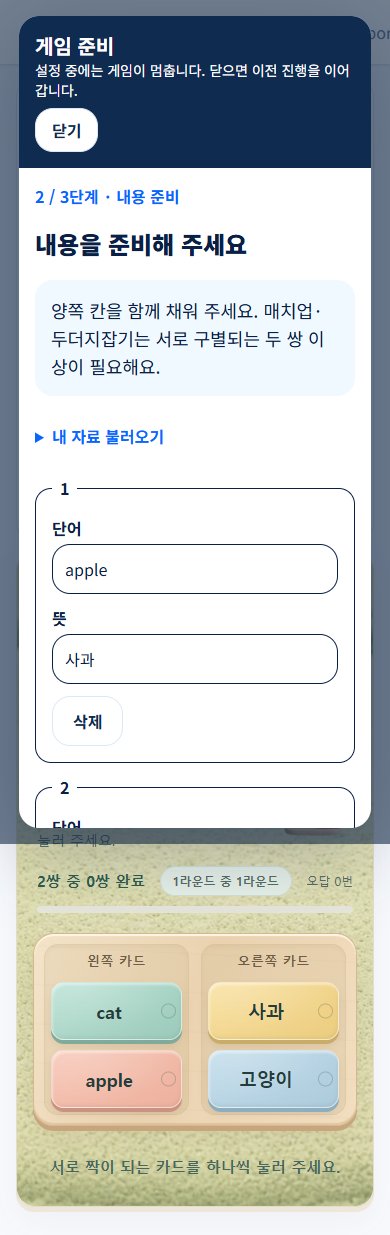
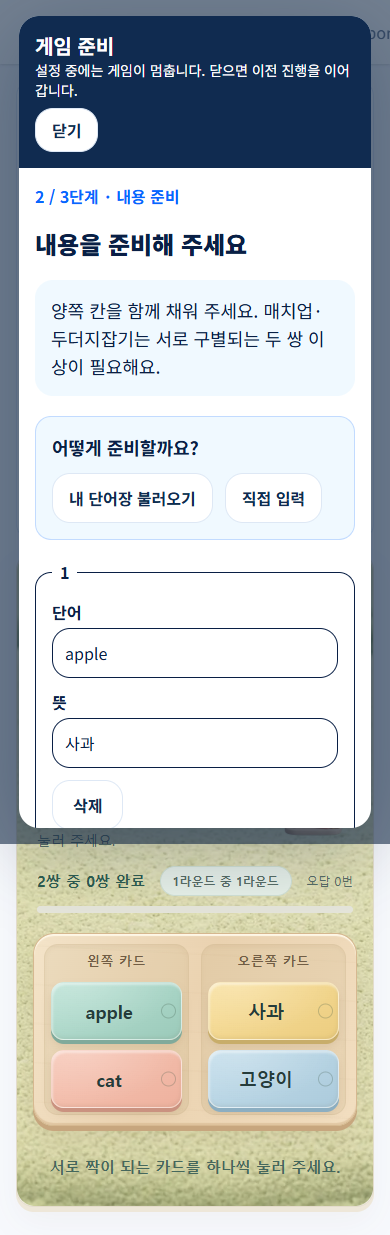
게임 만들기 안내 다듬기: 반 명단·자료 출처 고르기, 안내 흐름 검사 추가 (Codex 작업 마무리)

diff --git a/app/src/components/GameSetupGuide.tsx b/app/src/components/GameSetupGuide.tsx
@@ -4,12 +4,13 @@ import { useTranslation } from 'react-i18next';
 import { useAuth } from '../context/AuthContext';
 import type { GameWorkspaceBridge } from '../context/GameWorkspaceContext';
 import { guideFamily, guideKinds, guideRows, guideContent, guideProblem, type GuideKind } from '../lib/gameGuide';
-import { prepareClassroomGame } from '../lib/gameWorkspace';
+import { prepareClassroomGame, classroomGameRequirement } from '../lib/gameWorkspace';
 import { gamePreparation } from '../lib/gamePreparation';
 import { useRecoverableField } from '../lib/useRecoverableField';
 import { insertPhrase } from '../lib/storybook';
 import { SENTENCE_PATTERNS, getSentencePattern, slotLabelKey, type SentenceSlot } from '../lib/sentencePatterns';
-import type { FullCardItem, GameTemplate } from '../lib/types';
+import type { FullCardItem, GameTemplate, WordList } from '../lib/types';
+import GameSourcePicker from './GameSourcePicker';
 import GameImagePicker from './GameImagePicker';
 import { guideButton as button } from './GameCreateButton';
 
@@ -41,6 +42,28 @@ export default function GameSetupGuide({info,active,canStart,busy,run,start,open
   let rows:string[][]=[];try{const stored=raw?JSON.parse(raw):null;rows=Array.isArray(stored)&&stored.every(r=>Array.isArray(r)&&r.every(s=>typeof s==='string'))?stored:[];}catch{/* recover malformed tab data safely */}
   const write=(next:string[][])=>setRaw(JSON.stringify(next));
   const seed=(template:GameTemplate)=>{const next=guideRows(template,kind);write(next.length?next:[['','']]);};
+  async function importSource(cards:FullCardItem[],list?:WordList){
+    if(!info.selected)return;
+    setError('');
+    if(kind==='names'){write(cards.map(c=>[c.word]));if(info.gameType==='timer')setNames(cards.map(c=>c.word).join('\n'));return;}
+    if(family==='bridge'){setSource(cards[0]?.word||'');write(cards.map(c=>[c.word,'','','']));return;}
+    if(family==='tower'){setTowerStart(cards[0]?.word||'');write([['','0','','']]);return;}
+    if(family==='image'||family==='groups'){
+      const config={...info.selected.config,classroomSource:{id:list?.id||'composition',name:list?.name||'',kind:'word' as const,version:list?.updated_at||'',cards}};
+      if(!await run(()=>info.applyGuide({items:info.selected!.items,config})))throw new Error('import_failed');
+      write(cards.map(c=>family==='image'?[c.word,c.imageUrl||'']:[c.word,c.category||'']));return;
+    }
+    const content=prepareClassroomGame(info.gameType,cards,kind==='sentence'?'sentence':'word');
+    if(!content)throw new Error('incompatible_source');
+    const next={...info.selected,items:content.items,config:{...info.selected.config,...content.config,classroomSource:{id:list?.id||'composition',name:list?.name||'',kind:kind==='sentence'?'sentence' as const:'word' as const,version:list?.updated_at||'',cards}}};
+    if(!await run(()=>info.applyGuide({items:next.items,config:next.config})))throw new Error('import_failed');
+    seed(next);
+  }
+  function sourceReason(list:WordList){
+    if(['bridge','tower','image','groups'].includes(family))return null;
+    if(prepareClassroomGame(info.gameType,list))return null;
+    const requirement=classroomGameRequirement(info.gameType,list.kind||'word');return t(requirement.key,{count:requirement.count});
+  }
   const setCell=(i:number,j:number,value:string)=>{const next=rows.map(r=>[...r]);next[i]||=[];next[i][j]=value;write(next);};
   useEffect(()=>{nativeVisible(active&&step===1&&native);},[active,step,native,nativeVisible]);
   useEffect(()=>{if(active)heading.current?.focus();},[active,step]);
@@ -119,8 +142,9 @@ export default function GameSetupGuide({info,active,canStart,busy,run,start,open
     {step===1&&<>
       <p className="rounded-xl bg-sky-50 p-4 text-lg">{t(`guide.hints.${family}`)}</p>
       {t(`guide.gameHints.${info.gameType}`,{defaultValue:''})&&<p>{t(`guide.gameHints.${info.gameType}`,{defaultValue:''})}</p>}
+      {!native&&kind!=='sample'&&<GameSourcePicker kind={kind} onPick={importSource} canUse={sourceReason} />}
       {!dedicated&&!native&&<>
-        {kind!=='names'&&<details><summary className="cursor-pointer py-2 font-bold text-primary">{t('guide.load')}</summary><div className="flex flex-wrap gap-2">{info.lists.length?info.lists.map(list=>{const content=prepareClassroomGame(info.gameType,list);const canFill=!!content||(['bridge','tower'].includes(family)?list.kind==='sentence':['image','groups'].includes(family)&&list.kind!=='sentence');return <button className={button} key={list.id} disabled={!canFill||busy} onClick={()=>{if(!info.selected)return;if(family==='bridge'){setSource(list.items[0]?.word||'');write(list.items.map(i=>[i.word,'','','']));return;}if(family==='tower'){setTowerStart(list.items[0]?.word||'');write([['','0','','']]);return;}if(family==='image'){write(list.items.map(i=>[i.word,i.image_url||'']));return;}if(family==='groups'){write(list.items.map(i=>[i.word,i.category||'']));return;}if(content){const next={...info.selected,items:content.items,config:{...info.selected.config,...content.config,classroomSource:{id:list.id,name:list.name,kind:list.kind||'word',version:list.updated_at,cards:list.items.map(i=>({id:i.id,word:i.word,meaning:i.meaning,imageUrl:i.image_url,category:i.category}))}}};void run(()=>info.applyGuide({items:next.items,config:next.config})).then(ok=>{if(ok)seed(next);});}}}>{list.name} · {list.items.length}</button>;}):<p>{t('guide.empty')}</p>}</div></details>}
+
         {family==='diagram'&&<div className="space-y-3"><GameImagePicker academyId={info.academyId} value={diagram||null} onChange={url=>setDiagram(url||'')}/>{diagram&&<div className="relative w-fit"><button type="button" className="block rounded-xl focus-visible:outline-4 focus-visible:outline-primary" aria-label={t('guide.hints.diagram')} onClick={e=>{const bounds=e.currentTarget.getBoundingClientRect();const keyboard=e.detail===0;write([...rows.filter(r=>r[0]),['',String(keyboard ? .5 : (e.clientX-bounds.left)/bounds.width),String(keyboard ? .5 : (e.clientY-bounds.top)/bounds.height)]]);}}><img src={diagram} className="max-h-80 max-w-full cursor-crosshair" alt=""/></button>{rows.map((r,i)=><span key={i} aria-hidden className="pointer-events-none absolute rounded-full bg-primary px-2 text-white" style={{left:`${Number(r[1])*100}%`,top:`${Number(r[2])*100}%`}}>{i+1}</span>)}</div>}</div>}
         {family==='slots'&&<label className="block font-bold">{t('gameWatermelon.slotLabel')}<select className="ml-2 rounded-xl border p-3" value={pattern} onChange={e=>setPattern(e.target.value)}>{SENTENCE_PATTERNS.filter(p=>p.playable).map(p=><option key={p.id} value={p.id}>{t(p.nameKey)}</option>)}</select></label>}
         {family==='tower'&&<label className="block font-bold">{t('guide.startSentence')}<input className="mt-2 w-full rounded-xl border p-3" value={towerStart} onChange={e=>setTowerStart(e.target.value)}/></label>}
@@ -138,6 +162,7 @@ export default function GameSetupGuide({info,active,canStart,busy,run,start,open
     </>}
     {step===2&&<><p>{t('guide.peopleHint')}</p>{info.teamCount!==undefined?<label className="block font-bold">{t('guide.teamCount')}<select className="ml-3 rounded-xl border p-3" value={info.teamCount} disabled={busy} onChange={e=>void run(()=>info.configureTeams(Number(e.target.value)))}>{Array.from({length:info.gameType==='telepathy'?5:info.gameType==='lastbox'||info.gameType==='mysterybox'?7:3},(_,i)=>i+2).map(n=><option key={n}>{n}</option>)}</select></label>:['tictactoe','connect4','baskin31','twodice','gameshowquiz','winlosequiz'].includes(info.gameType)?<p>{t('guide.teamFixed')}</p>:<p>{t('guide.defaultPeople')}</p>}
       {info.gameType==='lightning'&&<label>{t('flow.count_participants',{count:info.selected?.config.lightningPlayers||8})}<input className="ml-2 rounded-xl border p-3" aria-label={t('guide.participation')} type="number" min={2} max={40} value={info.selected?.config.lightningPlayers||8} onChange={e=>{const count=Number(e.target.value);if(count>=2&&count<=40&&info.selected)void run(()=>info.applyGuide({items:info.selected!.items,config:{...info.selected!.config,lightningPlayers:count}}));}}/></label>}
+      {(manualPeople||info.gameType==='saveorgive'||info.gameType==='timer')&&<GameSourcePicker kind="names" onPick={cards=>setNames(cards.map(c=>c.word).join('\n'))} />}
       {(manualPeople||info.gameType==='saveorgive'||info.gameType==='timer')&&<label className="block">{t('guide.peopleNames')}<textarea className="mt-2 min-h-24 w-full rounded-xl border p-3" value={names} onChange={e=>setNames(e.target.value)}/></label>}{manualPeople&&<button className={button} onClick={()=>{setParticipants(names);openTeams();}}>{t('guide.teamNames')}</button>}<p className="text-sm">{t('guide.teamNative')}</p>
     </>}
     {step===3&&<><p>{t(kind==='sample'?'guide.sampleNotice':'guide.temporary')}</p>{info.gameType==='quizshow'&&<p className="rounded-xl bg-amber-50 p-4">{t('guide.online')}</p>}

diff --git a/app/src/components/GameSourcePicker.tsx b/app/src/components/GameSourcePicker.tsx
@@ -1,0 +1,60 @@
+import { useEffect, useRef, useState } from 'react';
+import { useTranslation } from 'react-i18next';
+import { useAuth } from '../context/AuthContext';
+import { fetchAllWordLists, fetchClasses, fetchStudentsOfClass } from '../lib/api';
+import { wordListToCards } from '../lib/gameFromWords';
+import type { ClassRow, FullCardItem, Student, WordList } from '../lib/types';
+
+const button='min-h-12 rounded-xl border border-outline-variant bg-white px-4 py-3 font-bold text-deep-navy focus-visible:outline-4 focus-visible:outline-primary disabled:opacity-40';
+type Kind='word'|'sentence'|'names';
+export default function GameSourcePicker({kind,onPick,onDirect,canUse}: {
+  kind:Kind;
+  onPick:(cards:FullCardItem[],list?:WordList)=>void|Promise<void>;
+  onDirect?:()=>void;
+  canUse?:(list:WordList)=>string|null;
+}) {
+  const {t}=useTranslation();const {academy,session}=useAuth();
+  const [open,setOpen]=useState(false);const [lists,setLists]=useState<WordList[]>([]);const [classes,setClasses]=useState<ClassRow[]>([]);
+  const [classId,setClassId]=useState('');const [students,setStudents]=useState<Student[]>([]);const [selected,setSelected]=useState<string[]>([]);
+  const [loading,setLoading]=useState(false);const [failed,setFailed]=useState(false);const [retry,setRetry]=useState(0);const [busy,setBusy]=useState(false);
+  const identity=`${session?.user.id}:${academy?.id}:${kind}`;
+  const currentIdentity=useRef(identity);currentIdentity.current=identity;
+  const [loadedIdentity,setLoadedIdentity]=useState('');const [studentClass,setStudentClass]=useState('');
+  useEffect(()=>{setOpen(false);setLists([]);setClasses([]);setClassId('');setStudents([]);setSelected([]);setFailed(false);setBusy(false);},[identity]);
+  useEffect(()=>{
+    if(!open||!academy?.id||!session?.user.id)return;
+    let active=true;setLoading(true);setFailed(false);setLoadedIdentity('');setLists([]);setClasses([]);
+    const request=kind==='names'?fetchClasses(academy.id):fetchAllWordLists(academy.id,'all');
+    void request.then(rows=>{if(!active)return;if(kind==='names')setClasses((rows as ClassRow[]).filter(c=>c.academy_id===academy.id));else setLists((rows as WordList[]).filter(l=>l.academy_id===academy.id&&(l.kind||'word')===kind));setLoadedIdentity(identity);}).catch(()=>{if(active)setFailed(true);}).finally(()=>{if(active)setLoading(false);});
+    return()=>{active=false;};
+  },[open,identity,retry,academy?.id,session?.user.id,kind]);
+  useEffect(()=>{
+    setStudents([]);setSelected([]);setStudentClass('');
+    if(!open||kind!=='names'||!classId||loadedIdentity!==identity||!classes.some(c=>c.id===classId))return;
+    let active=true;setLoading(true);setFailed(false);
+    void fetchStudentsOfClass(classId).then(rows=>{if(!active)return;const own=rows.filter(s=>s.academy_id===academy?.id&&s.class_id===classId);setStudents(own);setSelected(own.map(s=>s.id));setStudentClass(classId);}).catch(()=>{if(active)setFailed(true);}).finally(()=>{if(active)setLoading(false);});
+    return()=>{active=false;};
+  },[classId,open,kind,identity,loadedIdentity,classes,academy?.id,retry]);
+  async function pick(cards:FullCardItem[],list?:WordList){
+    const owner=identity;if(busy||loadedIdentity!==identity)return;
+    setBusy(true);setFailed(false);
+    try{await onPick(structuredClone(cards),list?structuredClone(list):undefined);if(currentIdentity.current===owner)setOpen(false);}
+    catch{if(currentIdentity.current===owner)setFailed(true);}
+    finally{if(currentIdentity.current===owner)setBusy(false);}
+  }
+  const label=t(kind==='word'?'source.words':kind==='sentence'?'source.sentences':'source.class');
+  return <section className="space-y-3 rounded-2xl border border-primary/20 bg-sky-50 p-4" aria-label={t('source.choose')} data-game-source-picker>
+    <h3 className="text-lg font-bold">{t('source.choose')}</h3>
+    <div className="flex flex-wrap gap-3"><button type="button" className={`${button} ${open?'border-primary':''}`} aria-expanded={open} disabled={busy} onClick={()=>setOpen(v=>!v)}>{label}</button><button type="button" className={button} disabled={busy} onClick={()=>{setOpen(false);onDirect?.();}}>{t('guide.direct')}</button></div>
+    {open&&<div className="space-y-3" aria-busy={loading||busy}>
+      {failed&&<p role="alert">{t('guide.failed')} <button type="button" className={button} onClick={()=>setRetry(n=>n+1)}>{t('guide.retry')}</button></p>}
+      {kind==='names'&&loadedIdentity===identity&&<><label className="block font-bold">{t('source.chooseClass')}<select className="ml-2 max-w-full rounded-xl border bg-white p-3" value={classId} disabled={busy} onChange={e=>setClassId(e.target.value)}><option value="">{t('source.chooseClass')}</option>{classes.map(c=><option key={c.id} value={c.id}>{c.name}</option>)}</select></label>
+        {!classes.length&&!loading&&<p>{t('source.noClasses')}</p>}
+        {studentClass===classId&&!!classId&&!loading&&<><p>{t('source.attendance')}</p><div className="grid max-h-64 gap-2 overflow-y-auto sm:grid-cols-2">{students.map(s=><label key={s.id} className="flex min-h-12 items-center gap-3 rounded-xl bg-white p-3"><input type="checkbox" checked={selected.includes(s.id)} onChange={e=>setSelected(old=>e.target.checked?[...old,s.id]:old.filter(id=>id!==s.id))}/>{s.name}</label>)}</div>{!students.length&&<p>{t('source.noStudents')}</p>}
+          <button type="button" className={`${button} bg-primary! text-white!`} disabled={!selected.length||busy} onClick={()=>void pick(students.filter(s=>selected.includes(s.id)).map(s=>({id:s.id,word:s.name,meaning:'',imageUrl:null})))}>{t('source.useStudents',{count:selected.length})}</button></>}
+        <p className="text-sm">{t('source.rosterHint')}</p></>}
+      {kind!=='names'&&loadedIdentity===identity&&!loading&&<div className="grid gap-2 sm:grid-cols-2">{lists.length?lists.map(list=>{const reason=canUse?.(list);return <div key={list.id}><button type="button" className={`${button} w-full text-left`} disabled={busy||!!reason||!list.items.length} onClick={()=>void pick(wordListToCards(list),list)}>{list.name} · {t('quick.items',{count:list.items.length})}</button>{reason&&<p className="mt-1 text-sm">{reason}</p>}</div>;}):<p>{t(kind==='word'?'source.noWords':'source.noSentences')}</p>}</div>}
+      {loading&&<p role="status">{t('common.loading')}</p>}
+    </div>}
+  </section>;
+}

diff --git a/app/src/components/GameCreateButton.tsx b/app/src/components/GameCreateButton.tsx
@@ -1,22 +1,19 @@
+import GameSourcePicker from './GameSourcePicker';
 import { useEffect, useState } from 'react';
 import { useNavigate } from 'react-router-dom';
 import { useTranslation } from 'react-i18next';
 import { useAuth } from '../context/AuthContext';
-import { fetchAllWordLists } from '../lib/api';
 import { guideCatalogue, type GuideKind } from '../lib/gameGuide';
 import { isFreeTierGame } from '../lib/gameCatalog';
 import { useRecoverableField } from '../lib/useRecoverableField';
-import { wordListToCards } from '../lib/gameFromWords';
-import type { FullCardItem, WordList } from '../lib/types';
+import type { FullCardItem } from '../lib/types';
 import AccessibleDialog from './AccessibleDialog';
 
 export const guideButton = 'min-h-12 rounded-xl border border-outline-variant bg-white px-5 py-3 text-base font-bold text-deep-navy focus-visible:outline-4 focus-visible:outline-offset-2 focus-visible:outline-primary disabled:opacity-40';
 export default function GameCreateButton() {
   const {t}=useTranslation();const {session,academy,hasFullAccess,isStaff}=useAuth();const navigate=useNavigate();
   const [open,setOpen]=useState(false);const [kind,setKind]=useState<GuideKind|null>(null);const [ready,setReady]=useState(false);
-  const [lists,setLists]=useState<WordList[]>([]);const [loading,setLoading]=useState(false);const [failed,setFailed]=useState(false);const [retry,setRetry]=useState(0);
   const [text,setText]=useRecoverableField(`game-create:${kind||'word'}`);const [cards,setCards]=useState<FullCardItem[]>([]);
-  useEffect(()=>{if(!open||!academy?.id)return;let active=true;setLists([]);setLoading(true);setFailed(false);fetchAllWordLists(academy.id,'all').then(data=>{if(active)setLists(data);}).catch(()=>{if(active)setFailed(true);}).finally(()=>{if(active)setLoading(false);});return()=>{active=false;};},[open,academy?.id,session?.user.id,retry]);
   useEffect(()=>{setOpen(false);setKind(null);setCards([]);},[session?.user.id,academy?.id]);
   if(!isStaff)return null;
   const close=()=>{setOpen(false);setKind(null);setReady(false);setCards([]);};
@@ -25,9 +22,10 @@ export default function GameCreateButton() {
     <div className="space-y-5 p-5 sm:p-8" data-game-create>
       <header className="flex items-start justify-between gap-3"><div className="min-w-0"><h2 className="text-2xl font-black">{t(!kind?'guide.title':ready||kind==='sample'?'guide.chooseGame':'guide.chooseContent')}</h2><p className="mt-2 text-on-surface-variant">{t('guide.intro')}</p></div><button className={`${guideButton} shrink-0 whitespace-nowrap`} onClick={close}>{t('guide.close')}</button></header>
       {!kind?<div className="grid gap-4 sm:grid-cols-2">{(['sample','word','sentence','names'] as const).map((k,i)=><button key={k} className={`${guideButton} min-h-36 text-left ${k==='sample'?'border-primary bg-sky-50!':''}`} onClick={()=>{setKind(k);setCards([]);}}><span aria-hidden className="mb-2 block text-3xl">{['▶','Aa','💬','👥'][i]}</span><span className="block text-xl">{t(`guide.${k}`)}</span><span className="mt-2 block font-normal text-on-surface-variant">{t(`guide.${k}Hint`)}</span></button>)}</div>:!ready&&kind!=='sample'?<>
+        <GameSourcePicker kind={kind} onPick={selected=>{setCards(selected);setReady(true);}} />
         <label className="block font-bold">{t(kind==='names'?'guide.nameColumn':'guide.paste')}<textarea className="mt-2 min-h-44 w-full rounded-xl border p-3 font-normal" value={text} onChange={e=>setText(e.target.value)} placeholder={kind==='word'?'apple | 사과\nbanana | 바나나':kind==='sentence'?'I like apples.\nShe has a cat.':t('flow.participant',{n:1})+'\n'+t('flow.participant',{n:2})}/></label><p>{t('guide.pasteHint')}</p>
         <button className={`${guideButton} bg-primary! text-white!`} disabled={!text.trim()} onClick={()=>{setCards(parse());setReady(true);}}>{t('guide.next')}</button>
-        {kind!=='names'&&<section className="space-y-2 border-t pt-4"><h3 className="font-bold">{t('guide.load')}</h3>{loading?<p role="status">{t('common.loading')}</p>:failed?<p role="alert">{t('guide.failed')} <button className={guideButton} onClick={()=>setRetry(n=>n+1)}>{t('guide.retry')}</button></p>:lists.filter(l=>(l.kind||'word')===kind).length?lists.filter(l=>(l.kind||'word')===kind).map(l=><button className={`${guideButton} mr-2 mb-2`} key={l.id} onClick={()=>{setCards(wordListToCards(l));setReady(true);}}>{l.name} · {l.items.length}</button>):<p>{t('guide.empty')}</p>}</section>}
+
       </>:<><p>{t(`guide.${kind}`)}{cards.length?` · ${cards.length}`:''}</p><div className="grid max-h-[55dvh] gap-3 overflow-y-auto sm:grid-cols-2 lg:grid-cols-3">{guideCatalogue(kind).map(g=>{const locked=!hasFullAccess&&!isFreeTierGame(g.type);return <button key={g.type} className={`${guideButton} text-left`} disabled={locked} onClick={()=>{navigate(g.path,{state:{guideLaunch:{kind,cards,ownerId:session?.user.id,academyId:academy?.id}}});close();}}>{g.cover&&<img className="mb-2 h-24 w-full rounded-lg object-cover" src={g.cover} alt="" loading="lazy"/>}<span className="block text-lg">{t(g.nameKey)}</span><span className="block font-normal">{t(g.descKey)}</span>{locked&&<span>{t('guide.locked')}</span>}</button>;})}</div></>}
       {kind&&<button className={guideButton} onClick={()=>{if(ready){setReady(false);setCards([]);}else setKind(null);}}>{t('guide.back')}</button>}
       <p className="text-sm text-on-surface-variant">{t('guide.temporary')}</p>

diff --git a/app/src/i18n/sourceLocales.ts b/app/src/i18n/sourceLocales.ts
@@ -1,0 +1,6 @@
+export const sourceKo={
+  choose:'어떻게 준비할까요?',words:'내 단어장 불러오기',sentences:'내 문장 모음 불러오기',class:'우리 반에서 불러오기',chooseClass:'반 선택',attendance:'오늘 참여할 학생만 선택해 주세요.',useStudents:'선택한 학생 {{count}}명 가져오기',rosterHint:'명단만 임시로 가져와요. 원래 반·학생 명단이나 게임의 저장 반은 바뀌지 않아요. 팀을 나누려면 참여 방법에서 팀·차례를 선택하세요.',noClasses:'등록된 반이 없어요. 학생·팀 이름을 직접 입력할 수 있어요.',noStudents:'이 반에 가져올 학생이 없어요. 다른 반을 선택하거나 직접 입력해 주세요.',noWords:'저장한 단어장이 없어요. 직접 입력하거나 샘플로 시작해 보세요.',noSentences:'저장한 문장 모음이 없어요. 직접 입력하거나 샘플로 시작해 보세요.',
+};
+export const sourceEn={
+  choose:'How would you like to prepare?',words:'Load my word lists',sentences:'Load my sentence collections',class:'Load from my class',chooseClass:'Choose a class',attendance:'Select only the students participating today.',useStudents:'Use {{count}} selected students',rosterHint:'Only a temporary copy of the roster is used. Your class, students and activity’s saved class remain unchanged. Choose team order in the participation settings to form teams.',noClasses:'No classes yet. You can enter student or team names directly.',noStudents:'No students to import from this class. Choose another class or enter names.',noWords:'No saved word lists yet. Enter content or try a sample.',noSentences:'No saved sentence collections yet. Enter content or try a sample.',
+};

diff --git a/app/src/components/GameWorkspace.tsx b/app/src/components/GameWorkspace.tsx
@@ -109,7 +109,7 @@ function TeacherGameWorkspace({ children }: { children: ReactNode }) {
     const previousInert = chrome.map(node => node.inert); chrome.forEach(node => { node.inert = true; });
     return () => { document.body.style.overflow = previousOverflow; delete document.documentElement.dataset.gameFocus; chrome.forEach((node,index) => { node.inert = previousInert[index]; }); };
   }, [playing, presenting]);
-  const allRoster = useMemo(() => info?.roster.length ? info.roster : (participantText.trim() ? participantText.split(/\r?\n/).map(name => name.trim()).filter(Boolean) : [t('flow.participant',{n:1}),t('flow.participant',{n:2})]).map((label,index) => ({ id:`temporary:${scope}:${index}`,label })), [info?.roster, participantText, scope, t]);
+  const allRoster = useMemo(() => participantText.trim() ? participantText.split(/\r?\n/).map(name=>name.trim()).filter(Boolean).map((label,index)=>({id:`temporary:${scope}:${index}`,label})) : info?.roster.length ? info.roster : [t('flow.participant',{n:1}),t('flow.participant',{n:2})].map((label,index)=>({id:`temporary:${scope}:${index}`,label})), [info?.roster, participantText, scope, t]);
   const roster = useMemo(() => allRoster.filter(row => !absent.includes(row.id)), [allRoster, absent]);
   const order = useMemo(() => { void revision; return loadTeamOrder(roster, scope); }, [roster, scope, revision]);
   const turnClick = useRef(0);

diff --git a/app/src/lib/gameGuide.ts b/app/src/lib/gameGuide.ts
@@ -70,8 +70,8 @@ export function guideContent(type: GameType, rows: string[][], kind: GuideKind, 
   const sourceFamilies=['list','sentence','pairs','groups','image'];
   if(kind!=='names'&&kind!=='sample'&&sourceFamilies.includes(family)){
     const cards=family==='pairs'&&type==='typeanswer'?guideCards(usable.map(r=>[r[1],r[0]]),base.classroomSource?.cards):guideCards(usable,base.classroomSource?.cards);
-    if(family==='groups')cards.forEach((c,i)=>{c.category=usable[i][1];});
-    if(family==='image')cards.forEach((c,i)=>{c.imageUrl=usable[i][1];c.meaning='';});
+    if(family==='groups')cards.forEach((c,i)=>{c.category=usable[i][1];c.meaning=base.classroomSource?.cards.find(previous=>previous.word===c.word)?.meaning||'';});
+    if(family==='image')cards.forEach((c,i)=>{c.imageUrl=usable[i][1];c.meaning=base.classroomSource?.cards.find(previous=>previous.word===c.word)?.meaning||'';});
     // Only claim a reusable source if the native content really derives from it.
     if(prepareClassroomGame(type,cards,kind==='sentence'?'sentence':'word'))config.classroomSource={id:'composition',name:base.classroomSource?.name||'',kind:kind==='sentence'?'sentence':'word',version:'',cards};
   }

diff --git a/app/src/i18n/locales/en.ts b/app/src/i18n/locales/en.ts
@@ -1,8 +1,10 @@
+import { sourceEn } from '../sourceLocales';
 import { guideEn } from '../guideLocales';
 import type { Ko } from './ko';
 
 const en: Ko = {
   guide: guideEn,
+  source: sourceEn,
   flow: {
     videoFailed: 'Could not load the video. Reopen it or try the interactive sample.',
     defaultLesson: 'New lesson',

diff --git a/app/src/i18n/locales/ko.ts b/app/src/i18n/locales/ko.ts
@@ -1,6 +1,8 @@
+import { sourceKo } from '../sourceLocales';
 import { guideKo } from '../guideLocales';
 const ko = {
   guide: guideKo,
+  source: sourceKo,
   flow: {
     videoFailed: '영상을 불러오지 못했어요. 잠시 후 다시 열거나 샘플로 직접 해보세요.',
     defaultLesson: '새 수업',

diff --git a/docs/game-guidance-implementation.md b/docs/game-guidance-implementation.md
@@ -1,5 +1,19 @@
 # 단계별 게임 만들기 구현 (2026-10-20)
 
+## 단어장·문장 모음·우리 반 불러오기 보완
+
+첫 네 가지 선택 카드는 유지한다. 선택 후 입력 단계 상단에 종류별 `내 단어장 불러오기`, `내 문장 모음 불러오기`, `우리 반에서 불러오기`와 `직접 입력`을 제공한다. 홈의 게임 만들기와 개별 게임 안내가 같은 `GameSourcePicker.tsx`를 사용한다.
+
+- 단어/문장 자료는 종류와 현재 학원 범위에 맞는 실제 저장 자료만 표시하고 이름·항목 수를 보여 준다. 불러온 내용은 임시 편집기로 전달한다. 그룹·그림 편집에서도 기존 뜻과 그림·분류를 보존한다.
+- 반은 현재 학원의 반 목록에서 고른다. 학생은 기존의 활성 학생 조회 API를 사용하고 현재 반/학원에 맞는 행만 가져온다. 오늘 참여할 학생을 체크하여 가져오며, 원본 반·학생·활동의 저장 반을 수정하지 않는다. 가져올 학생이 없으면 적용을 막고 직접 입력을 유지한다.
+- 학습 내용 단계와 별개로 참여 방법 단계에도 반 불러오기를 제공한다. 임시로 지정한 참여자는 원래 게임의 반 명단보다 우선하지만 원본을 갱신하지 않는다. 팀 구분은 기존 팀/차례 패널을 유지한다.
+- 로딩·빈 자료/반·빈 명단·실패/재시도 상태를 제공한다. 빠르게 반을 바꾸거나 계정/학원/자료 종류를 바꿀 때 이전 비동기 결과를 적용하지 않는다.
+- `check-guide-sources.mjs` Chrome 검증 통과: 자료 종류 필터, 원본 불변, 체크한 학생만 불러와 게임 실행, 다른 학원의 학생 제외, 빠른 반 전환, 빈 반/반 없는 계정, 자료/명단 실패와 재시도, 홈에서 게임으로 명단 전달, 학습 자료와 별도 참가자 사용, 모바일.
+- `check-guide-flow.mjs`의 후속 시나리오와 `check-guide-logic.mjs`를 재실행했다. 직접 입력·저장/다시 열기·활동지·수업 연결·입력 복구·자료 구조/뜻 보존 검증 통과. 이번 보완에서 샘플 53종 브라우저 루프는 반복하지 않았으며 53종 설정 검사는 실행했다.
+- 빌드(TypeScript + Vite), 린트, diff 공백 검사를 통과했다. 기존 큰 chunk/린트 경고가 남는다. 캡처는 `output/game-source-class-mobile.png`다.
+
+이번 불러오기 보완은 로컬 구현이며 커밋·푸시·배포·운영 SQL은 실행하지 않았다. 이전 단계 안내 릴리스와 구별한다.
+
 ## 적용 범위
 
 합의한 53종(게임 번호 1~53)에 단계 안내를 추가했다. 이 작업 중 다른 작업에서 54~60번 게임이 추가되어 관련 파일이 함께 수정 중이었다. 그 작업을 되돌리지 않았으며, 새 게임 종류는 기존 편집기로 연결되는 기본 안내 경로를 제공한다. 새 7종에 53종과 같은 전용 입력 양식을 새로 설계하거나 전수 검증한 것은 아니다.
